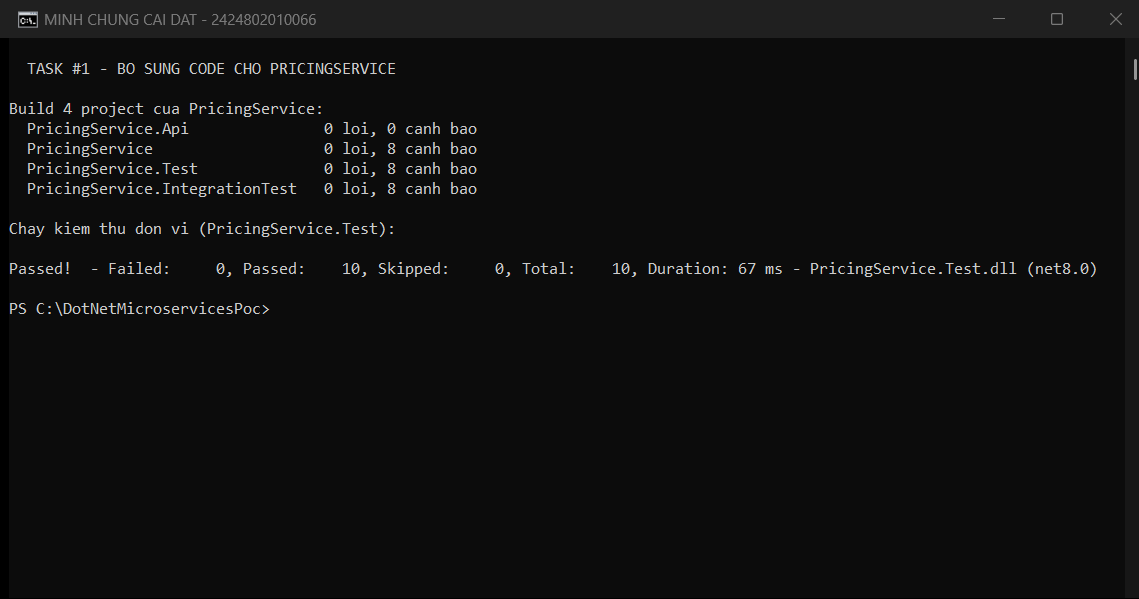
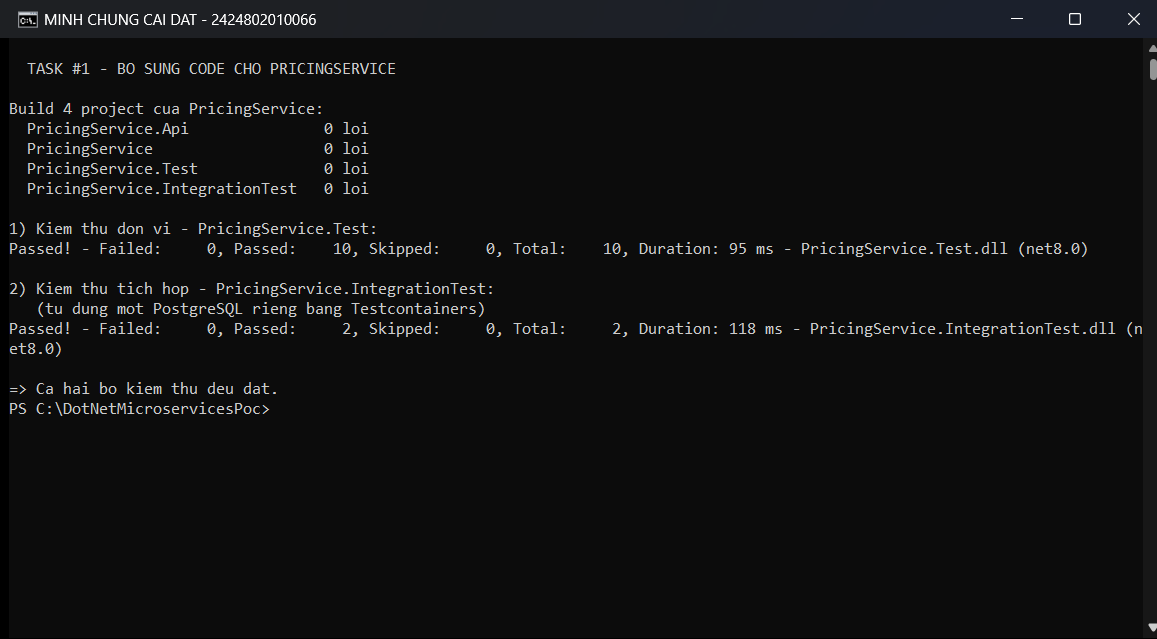
README: bo sung ket qua kiem thu tich hop va loi da sua
- Bang tom tat + bang Task #1: them dong kiem thu tich hop 2/2 Passed
- Cap nhat anh docs/bai5-build-test.png (ban cu chi co kiem thu don vi)
- Them muc 3 vao danh sach cho dieu chinh: loi UseInitializer chay nen lam
  integration test that bai, kem nguyen nhan va cach sua (4 cho -> 5 cho)

diff --git a/README.md b/README.md
@@ -21,7 +21,7 @@ Repository này chứa **cả hai** bài thực hành:
 
 | Bài | Nội dung | Trạng thái |
 |---|---|---|
-| **Số 5** (18/10/2026) | Dịch vụ Discovery — cài đặt Eureka, bổ sung code `PricingService` | ✅ Eureka chạy ở `localhost:8761`, **PRICINGSERVICE — UP**; build 0 lỗi, **10/10 test Passed** |
+| **Số 5** (18/10/2026) | Dịch vụ Discovery — cài đặt Eureka, bổ sung code `PricingService` | ✅ Eureka chạy ở `localhost:8761`, **PRICINGSERVICE — UP**; build 0 lỗi, **10/10 unit test** + **2/2 integration test Passed** |
 | **Số 4** (11/10/2026) | Cài đặt môi trường — solution, MediatR, PostgreSQL, RabbitMQ, Elasticsearch, Docker | ✅ **25 project**, build **0 Warning, 0 Error** |
 
 → Nội dung bài 5 ở [mục ngay bên dưới](#bài-thực-hành-số-5--dịch-vụ-discovery-và-cài-đặt-eureka);
@@ -104,7 +104,8 @@ dotnet build DotNetMicroservicesPoc.sln       # build 24 project
 | Project triển khai `PricingService` | ✅ bổ sung Domain, Commands, Controllers, DataAccess, Init, Startup.cs |
 | Thêm `PricingService.IntegrationTest` vào solution | ✅ solution: 24 → **25 project** |
 | Build 4 project | ✅ **0 Error** |
-| Kiểm thử đơn vị | ✅ **10/10 Passed** |
+| Kiểm thử đơn vị (`PricingService.Test`) | ✅ **10/10 Passed** |
+| Kiểm thử tích hợp (`PricingService.IntegrationTest`) | ✅ **2/2 Passed** — tự dựng PostgreSQL riêng bằng Testcontainers |
 | Gọi thử `POST /api/Pricing` | ✅ **totalPrice = 98.00** (C1=26, C2=52, C3=20) |
 
 ![Build và kiểm thử PricingService](docs/bai5-build-test.png)
@@ -114,7 +115,8 @@ nhưng bộ test lại tham chiếu `PricingService.Domain`, `CalculatePriceHand
 `IDataStore` — những lớp nằm trong project **triển khai** mà các tệp nén không có. Đối chiếu
 SHA-256 cho thấy **17/17 tệp thầy gửi trùng khớp 100%** với
 [`asc-lab/dotnetcore-microservices-poc`](https://github.com/asc-lab/dotnetcore-microservices-poc),
-nên phần triển khai được lấy đúng từ dự án đó. Kết quả 10/10 test Passed xác nhận là khớp.
+nên phần triển khai được lấy đúng từ dự án đó. Kết quả **10/10 unit test** và **2/2 integration
+test** Passed xác nhận là khớp ở cả mức lớp lẫn mức hệ thống.
 
 ### Task #2 — Cài đặt và cấu hình Eureka
 
@@ -131,7 +133,7 @@ nên phần triển khai được lấy đúng từ dự án đó. Kết quả 1
 
 **Cần có trước:** Docker Desktop và **.NET 8 Runtime**
 ([tải tại đây](https://dotnet.microsoft.com/download/dotnet/8.0)) — bốn project của PricingService
-để `net8.0` theo đúng code mẫu, xem lý do ở mục 4 bên dưới. Kiểm tra nhanh bằng
+để `net8.0` theo đúng code mẫu, xem lý do ở mục 5 bên dưới. Kiểm tra nhanh bằng
 `dotnet --list-runtimes`, cần thấy dòng `Microsoft.AspNetCore.App 8.x`.
 
 ```bash
@@ -148,7 +150,7 @@ with Eureka*.
 > HTTP_PROXY= HTTPS_PROXY= dotnet run --project src/PricingService/PricingService
 > ```
 
-### Bốn chỗ phải điều chỉnh so với hướng dẫn
+### Năm chỗ phải điều chỉnh so với hướng dẫn
 
 **1. Không gọi được `app.UseDiscoveryClient()`.**
 Lời gọi này thuộc **Steeltoe 2.x**; từ **Steeltoe 3.0** đã bị gỡ. Bản đang dùng (3.2.7) chỉ còn
@@ -162,11 +164,19 @@ Bản gốc dùng `openjdk:8-jre-slim`. Image `openjdk` đã ngừng phát hành
 trên Docker Hub (`not found`), nên đổi sang `eclipse-temurin:8-jre` — vẫn là JRE 8 chính chủ của
 Eclipse Adoptium, mã nguồn Eureka không phải sửa dòng nào.
 
-**3. Chuỗi kết nối PostgreSQL cần `SSL Mode=Disable`.**
+**3. Sửa một lỗi tiềm ẩn phát hiện khi chạy kiểm thử tích hợp.**
+Lần chạy `PricingService.IntegrationTest` đầu tiên bị 1 FAIL/2: test nhận HTTP 500 thay vì 200.
+Nguyên nhân: `app.UseInitializer()` trong `Startup.Configure` là một `async Task` (nạp 4 biểu phí
+mẫu vào CSDL) nhưng được gọi mà **không chờ kết quả**, nên việc nạp chạy nền trong khi pipeline đã
+mở cho request vào. Chạy bình thường không ai thấy, nhưng bộ test gửi request ngay sau khi host
+khởi động nên đọc phải CSDL rỗng → biểu phí null → lỗi 500. Đã sửa: chờ nạp xong rồi mới mở
+pipeline. Sau khi sửa **2/2 Passed**, dịch vụ vẫn đăng ký Eureka bình thường.
+
+**4. Chuỗi kết nối PostgreSQL cần `SSL Mode=Disable`.**
 Không có tham số này, Npgsql thử bắt tay SSL với container không bật SSL và treo đến khi hết giờ
 (`Failed to connect to 127.0.0.1:5433 — The operation has timed out`), dù cổng vẫn mở.
 
-**4. Bốn project của PricingService giữ `net8.0`.**
+**5. Bốn project của PricingService giữ `net8.0`.**
 Các project khác dùng .NET 10, nhưng code mẫu thầy gửi khai báo `net8.0` và đề bài yêu cầu thao tác
 trên `Startup.cs` — lớp này không còn trong mô hình *minimal hosting* của .NET mới. Đề cũng khuyên
 *"đổi lại tên cho phù hợp với code mẫu thầy gửi"*. Máy có sẵn ASP.NET Core Runtime 8.0.31.
